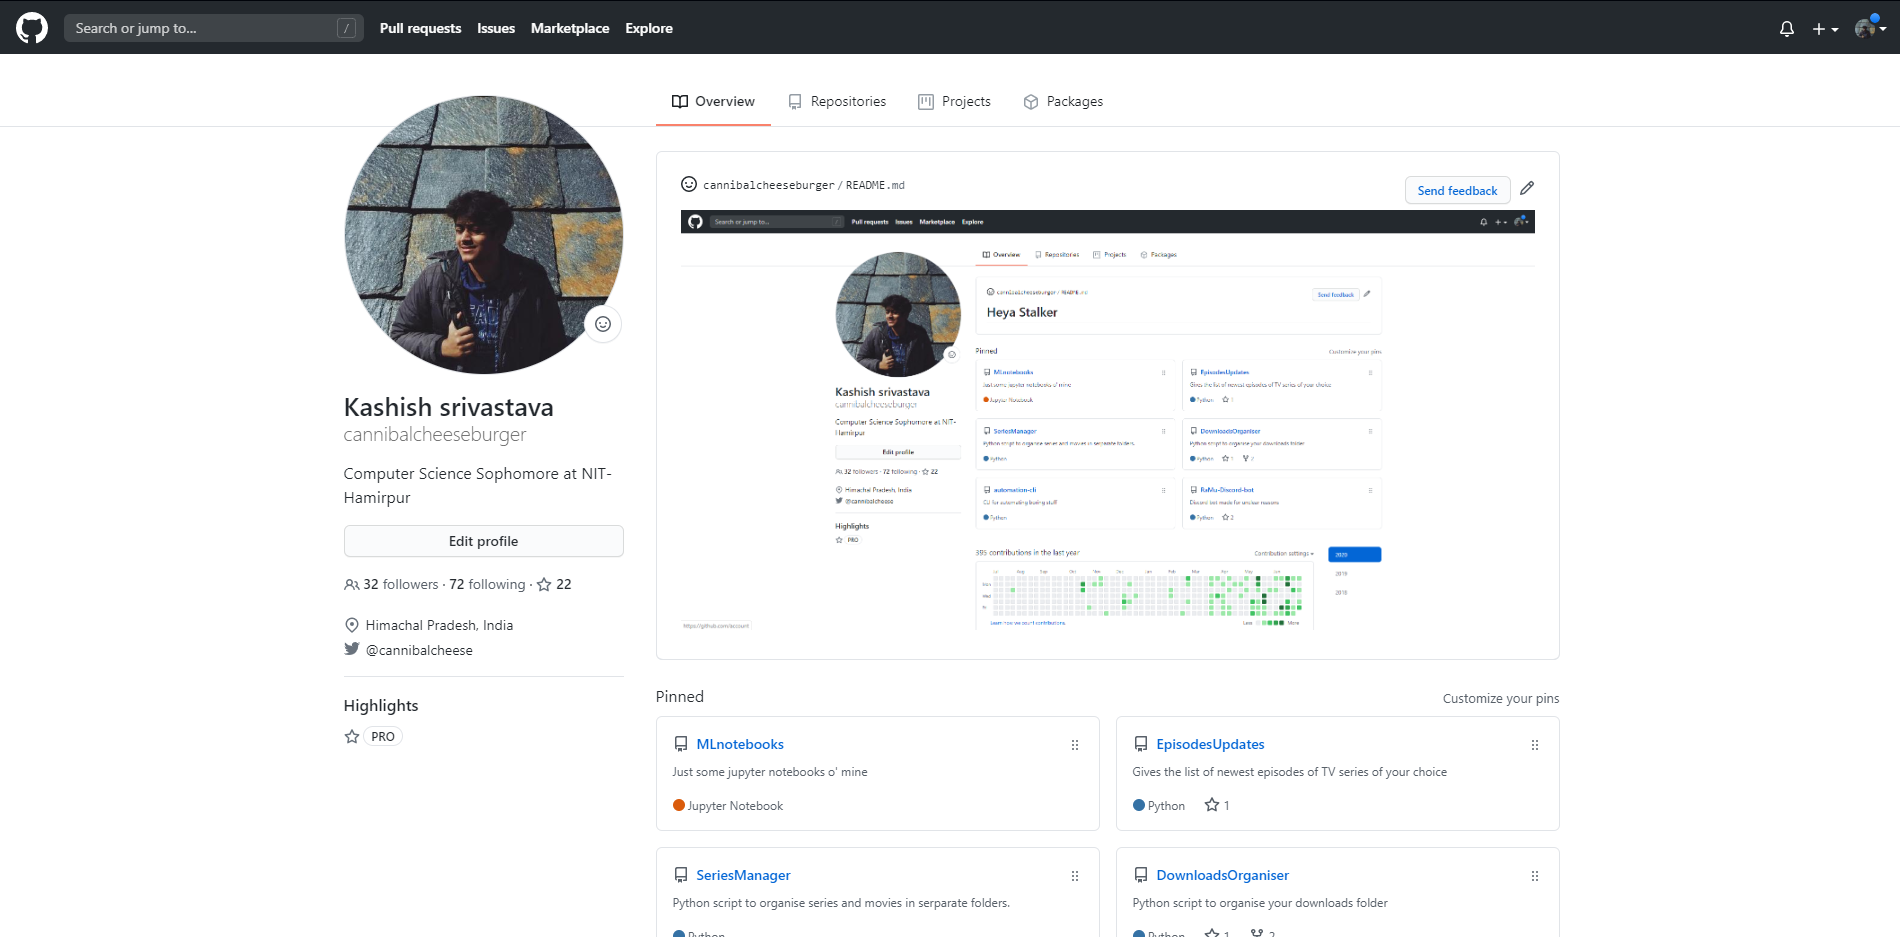
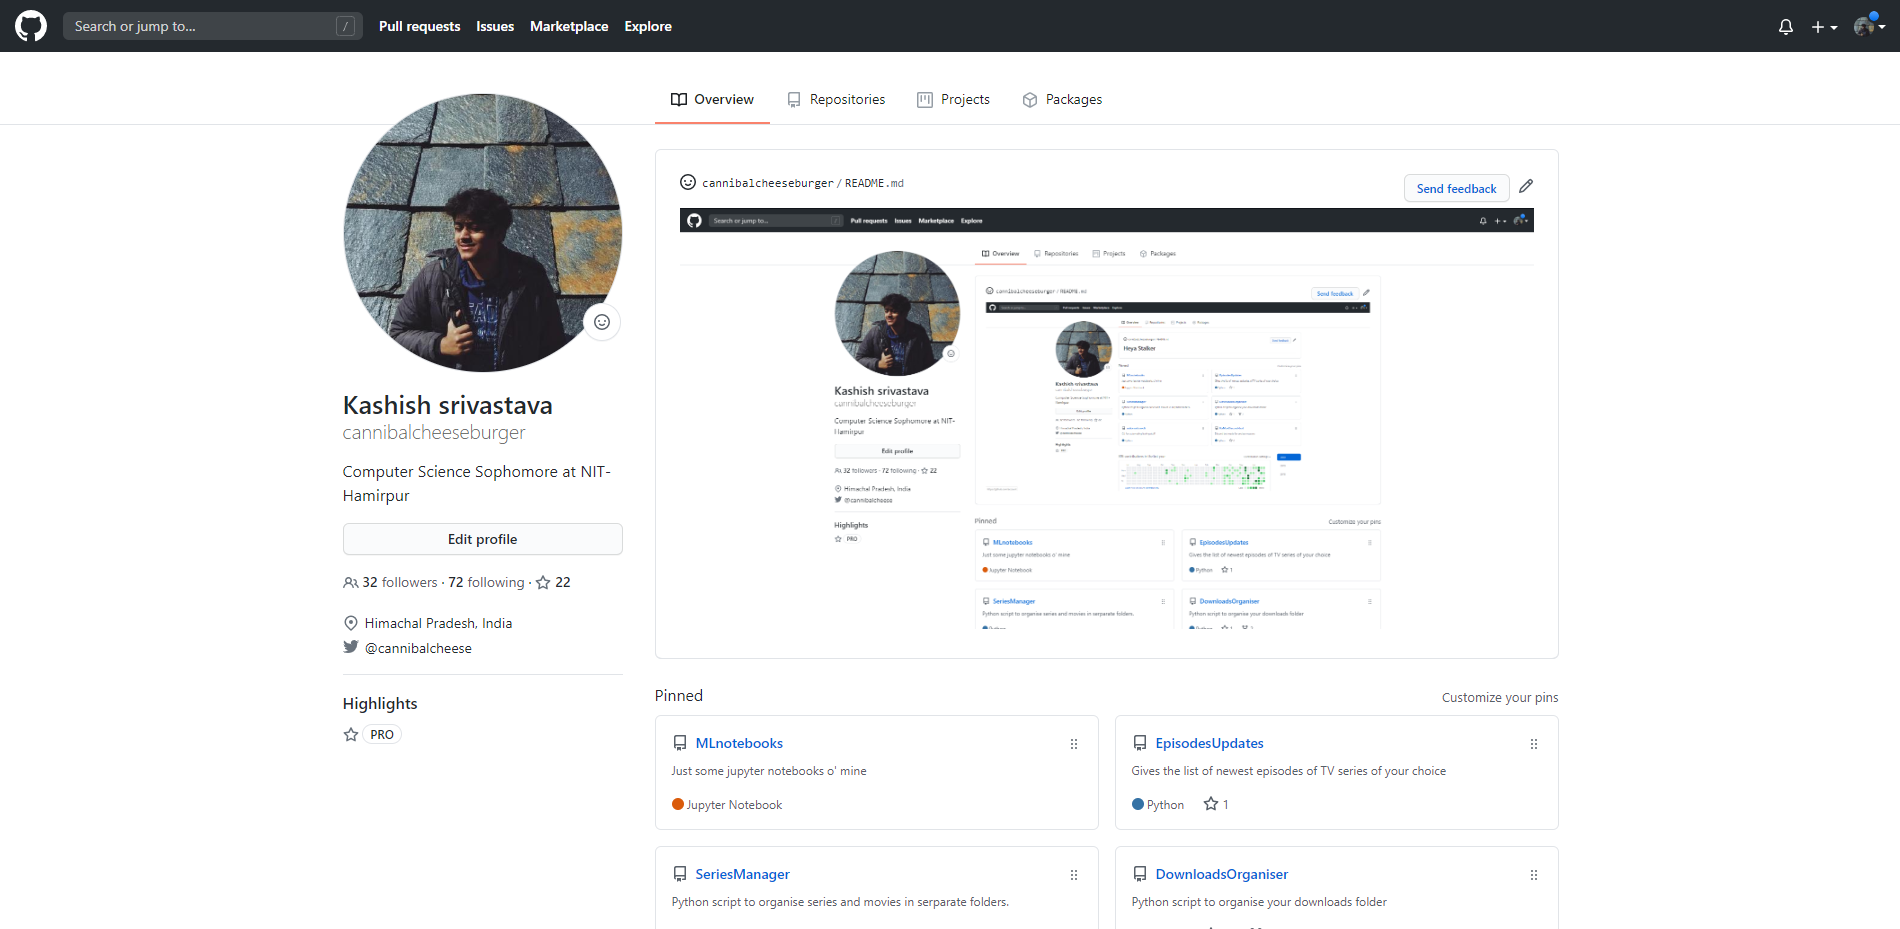
dep 3

diff --git a/README.md b/README.md
@@ -1,1 +1,1 @@
-![wd](https://github.com/cannibalcheeseburger/cannibalcheeseburger/blob/master/Capture.PNG)
+![wd](https://github.com/cannibalcheeseburger/cannibalcheeseburger/blob/master/Capture1.PNG)
